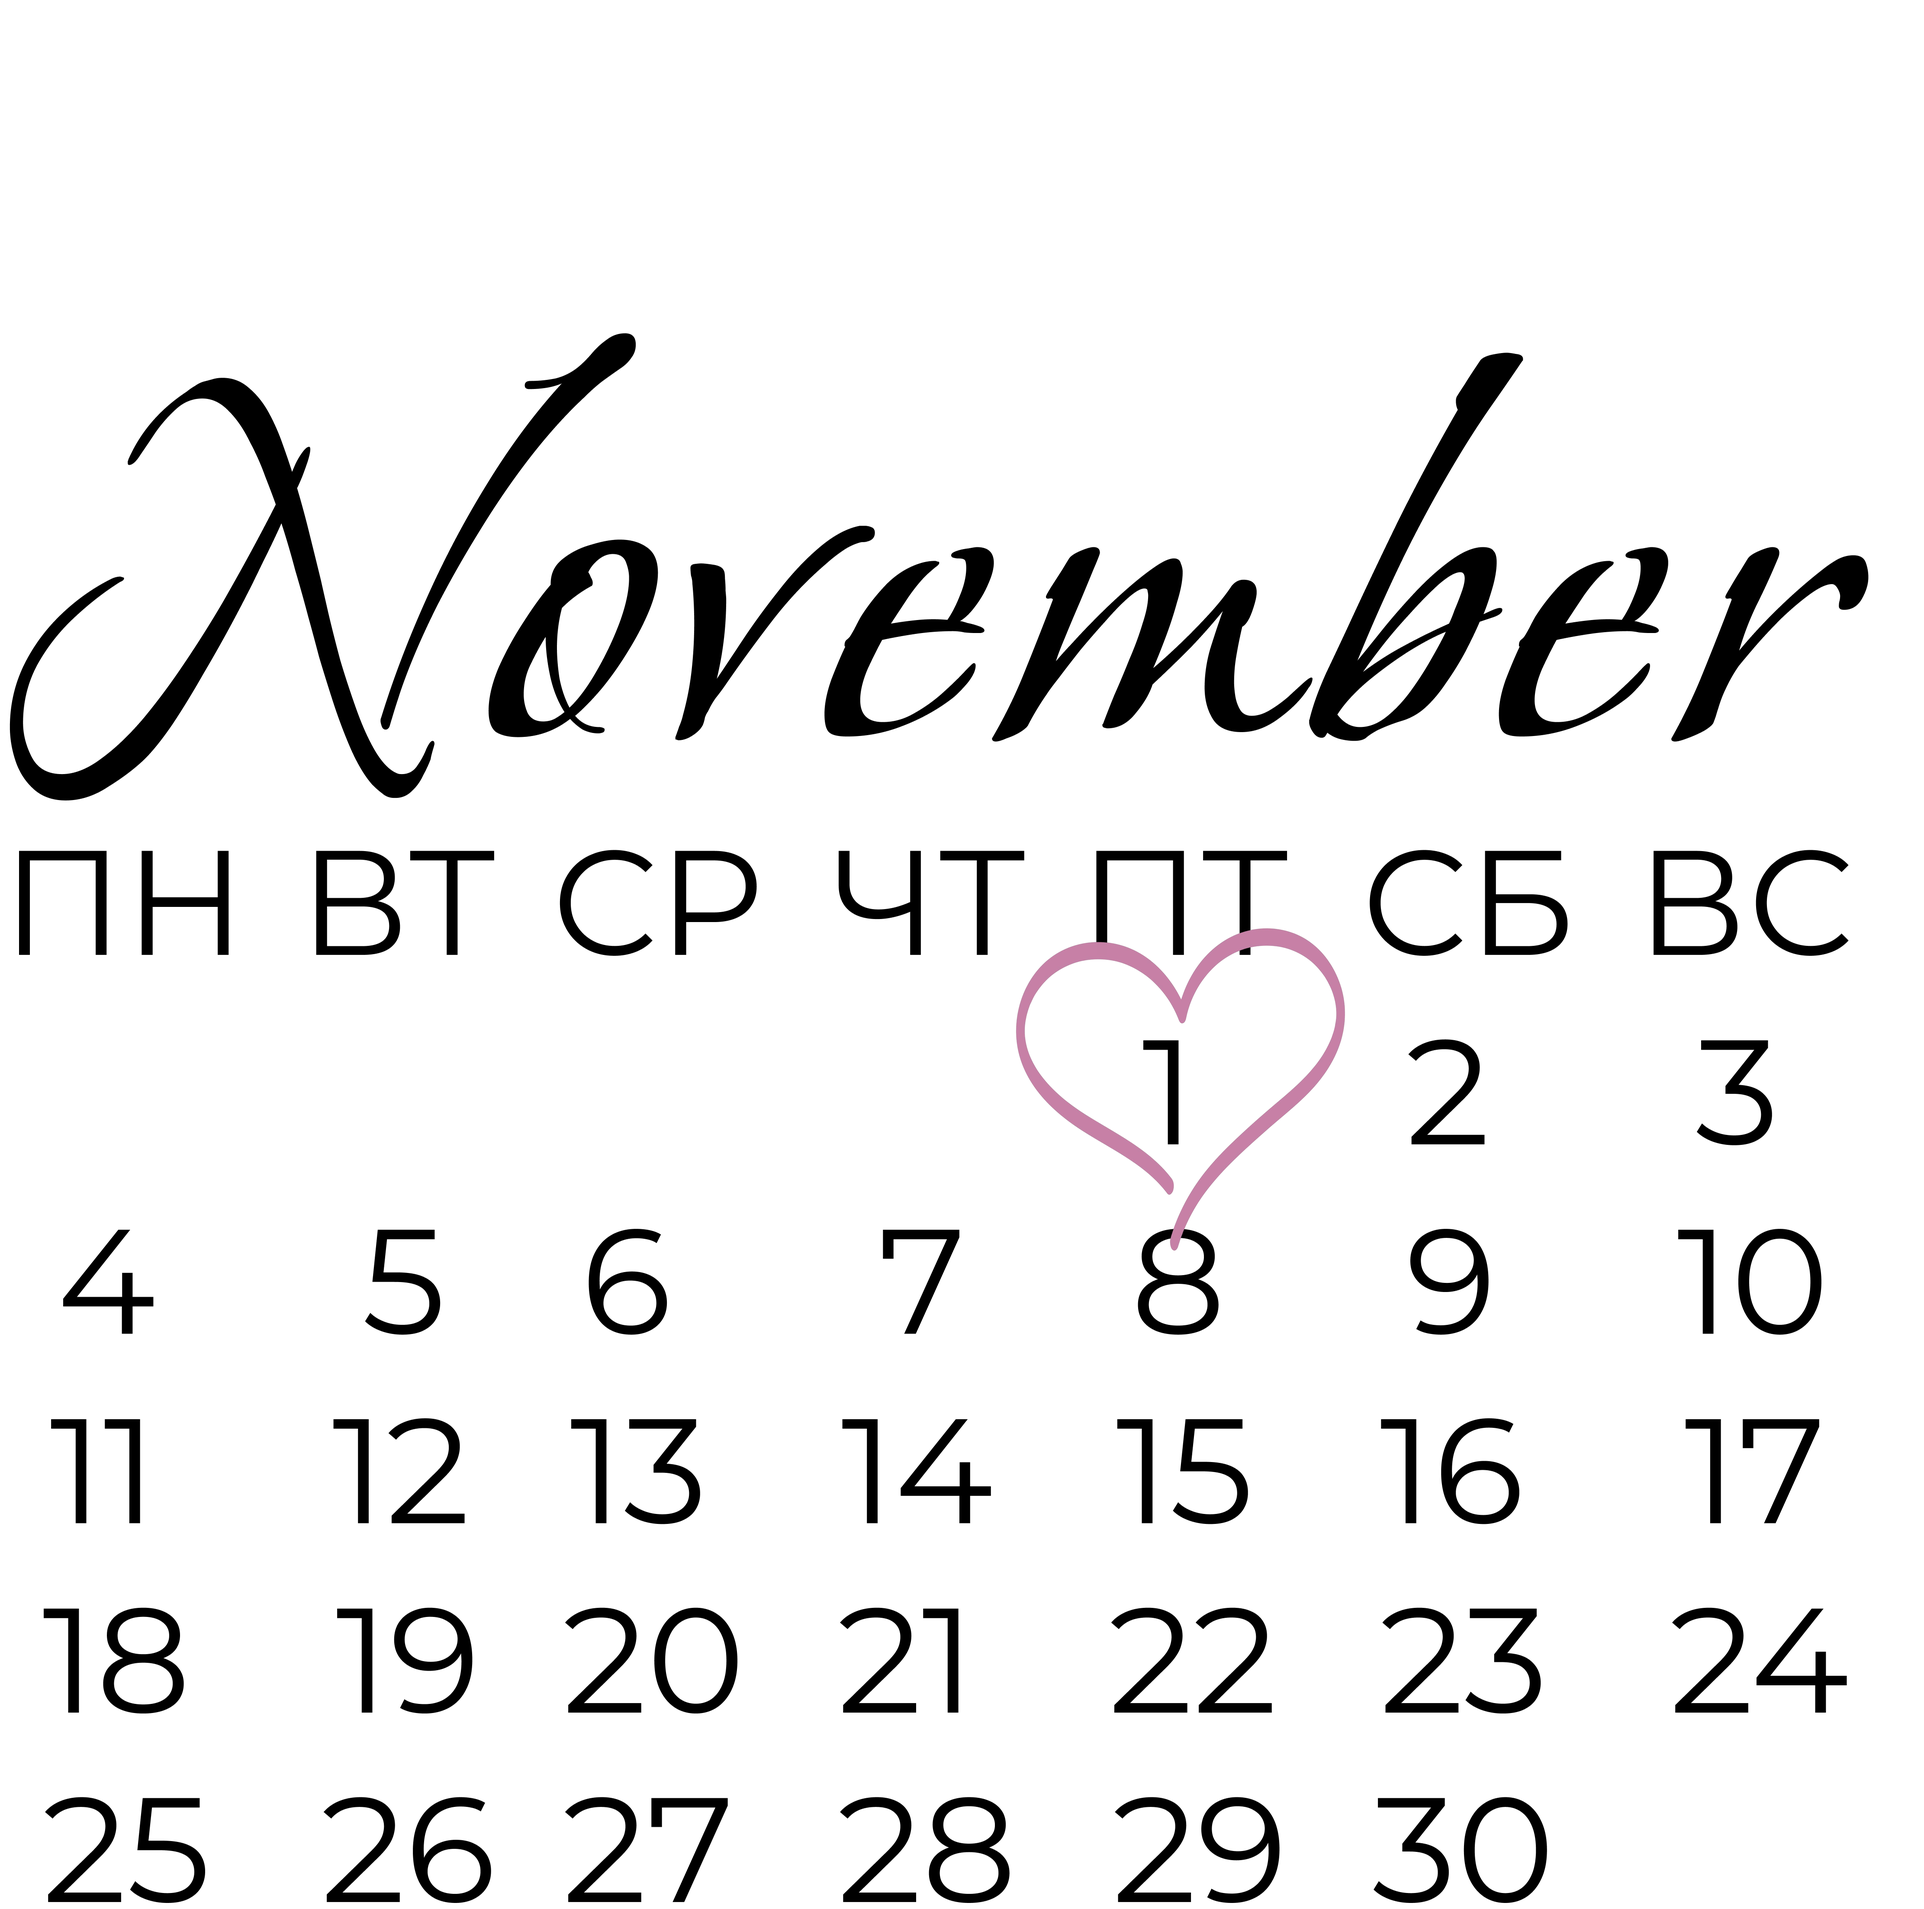
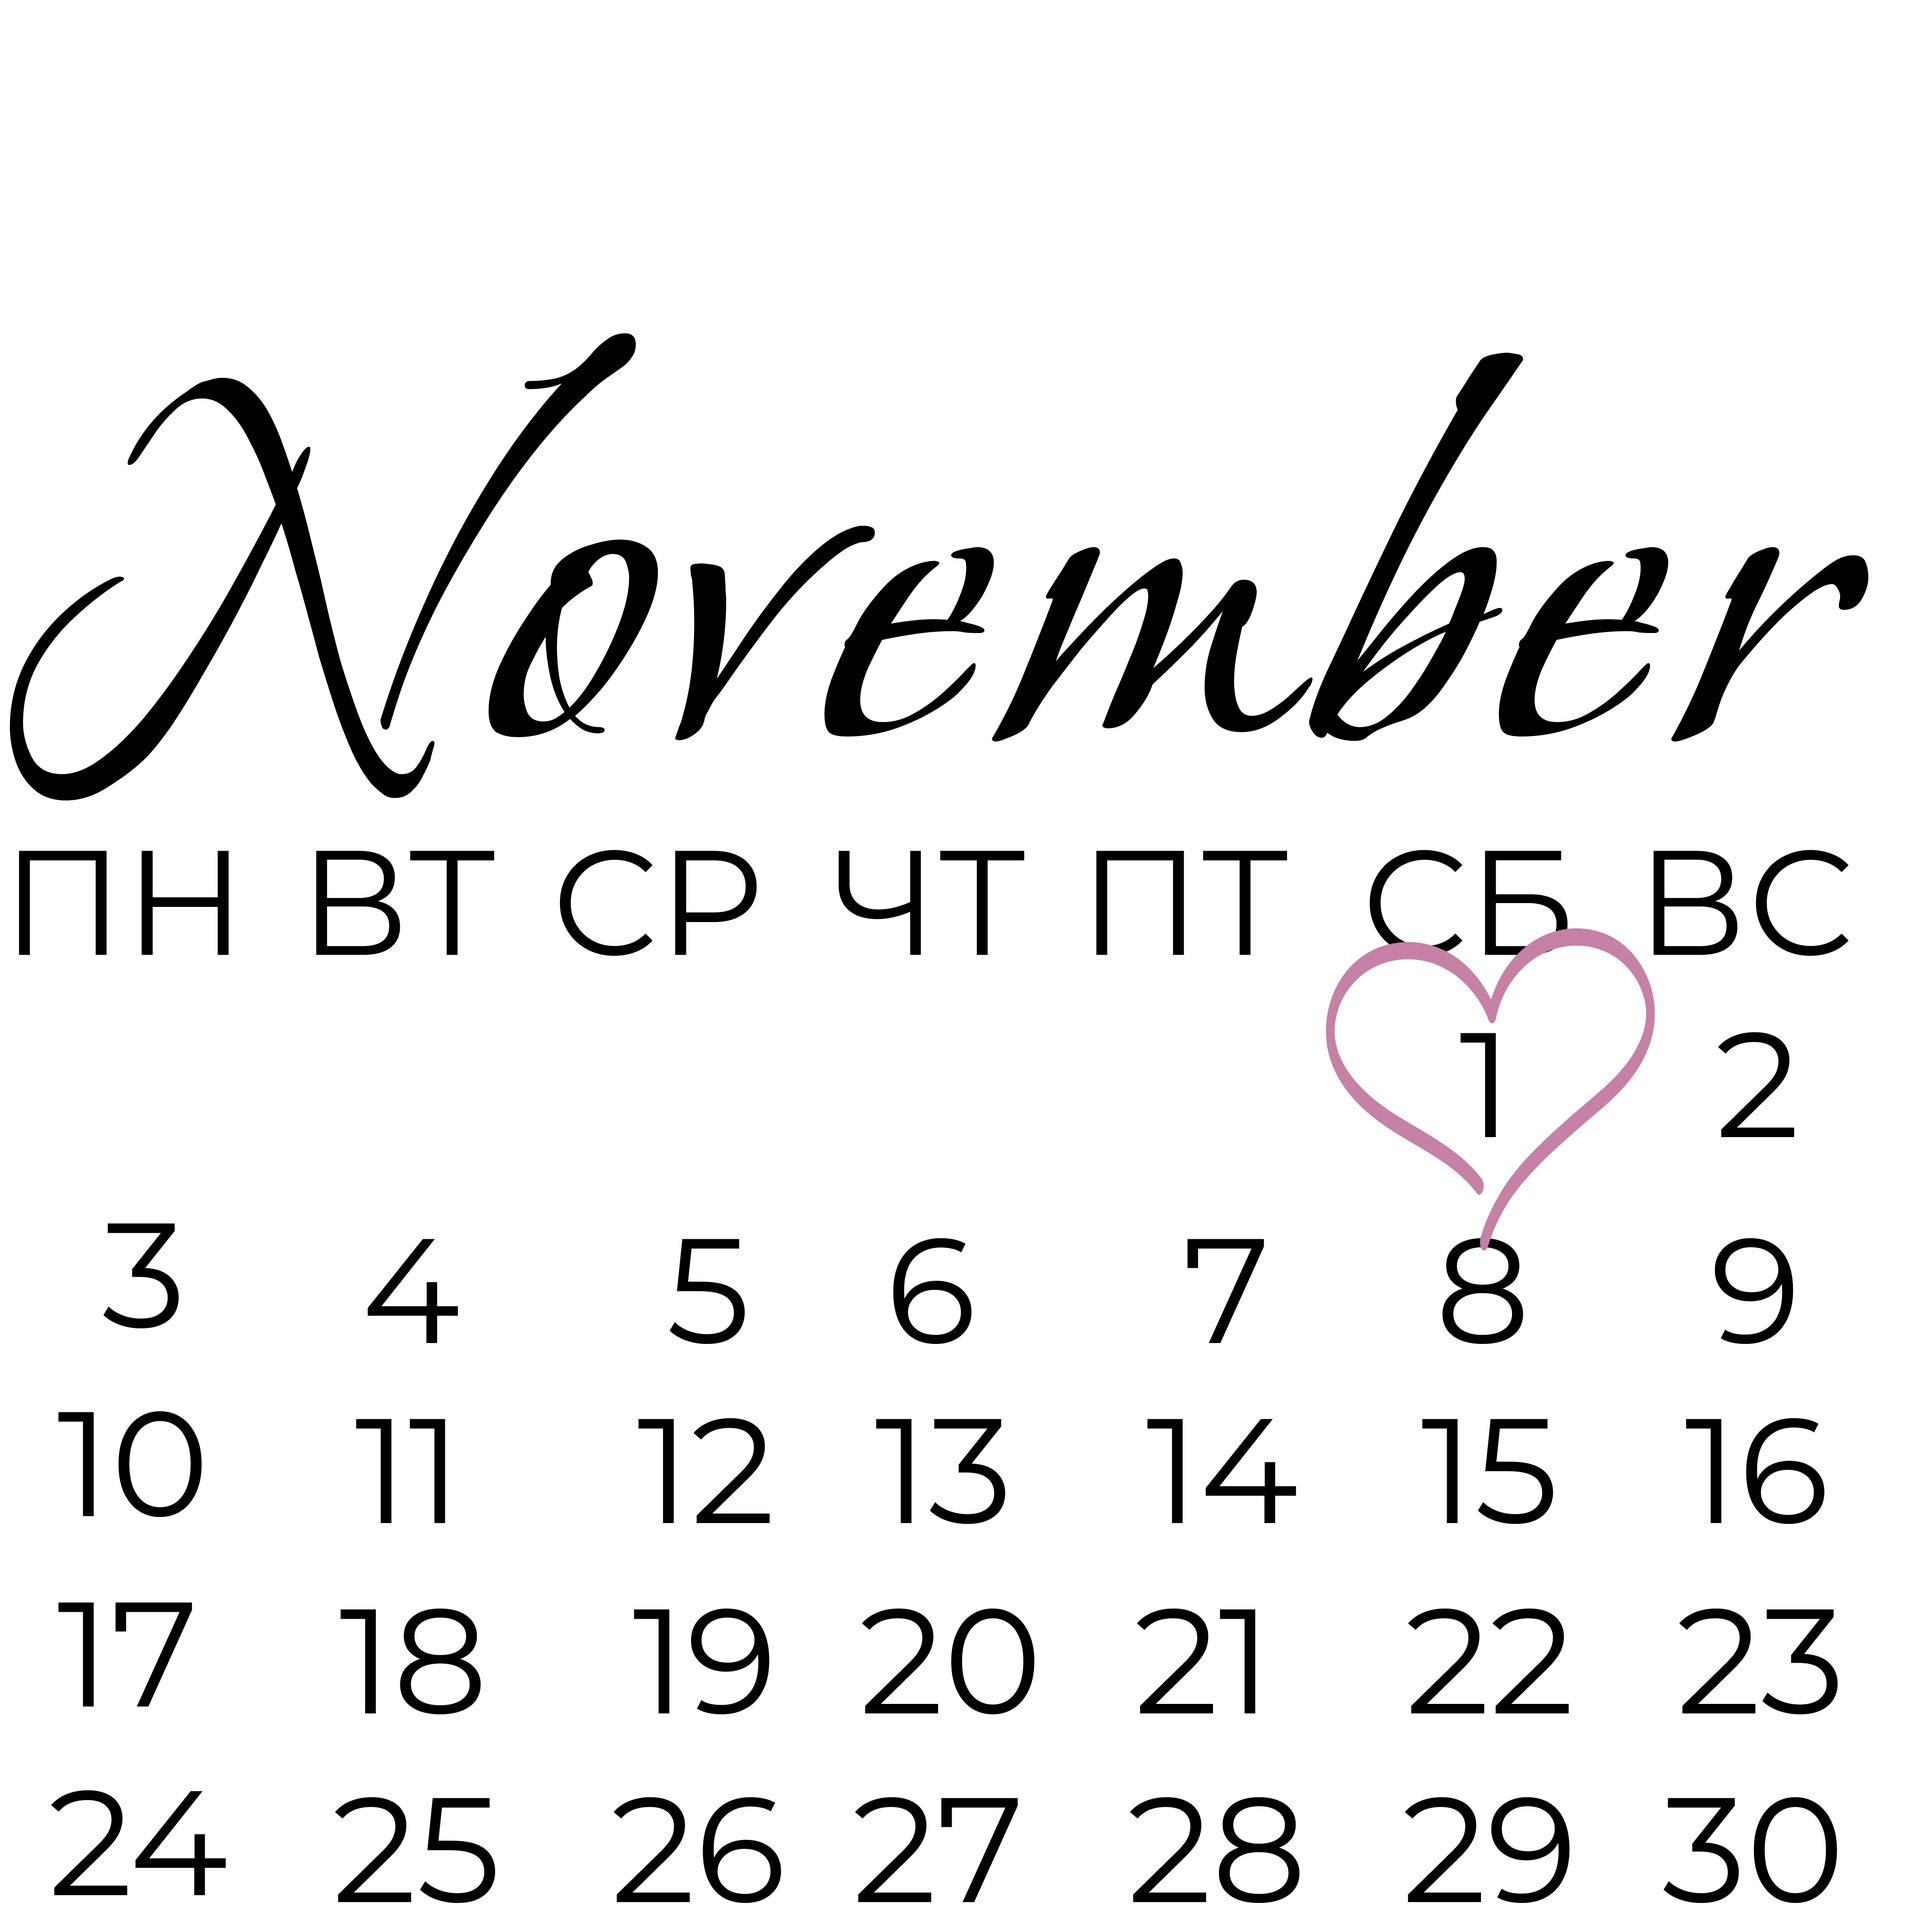
123

diff --git a/index.html b/index.html
@@ -5,7 +5,16 @@
   <meta charset="UTF-8" />
   <link rel="icon" type="image/svg+xml" href="/vite.svg" />
   <meta name="viewport" content="width=device-width, initial-scale=1.0" />
-  <title>Vite + React + TS + Shadcn-ui</title>
+  <!-- Open Graph / Facebook -->
+  <meta property="og:type" content="website" />
+  <meta property="og:url" content="https://rasult22.github.io/wedding-invite/" />
+  <meta property="og:title" content="Wedding Invitation" />
+  <meta property="og:description" content="You're invited to our special day! Join us for our wedding celebration." />
+  <meta property="og:image" content="https://rasult22.github.io/wedding-invite/eyes.webp" />
+  <meta property="og:image:width" content="1200" />
+  <meta property="og:image:height" content="630" />
+  <meta property="og:image:alt" content="Wedding Invitation" />
+  <title>Abdurakhman & Sabina</title>
   <script async src="https://umami.moinulmoin.com/script.js"
     data-website-id="4b33d804-29a8-4325-95bb-fc64ebdcf0ff"></script>
 </head>
